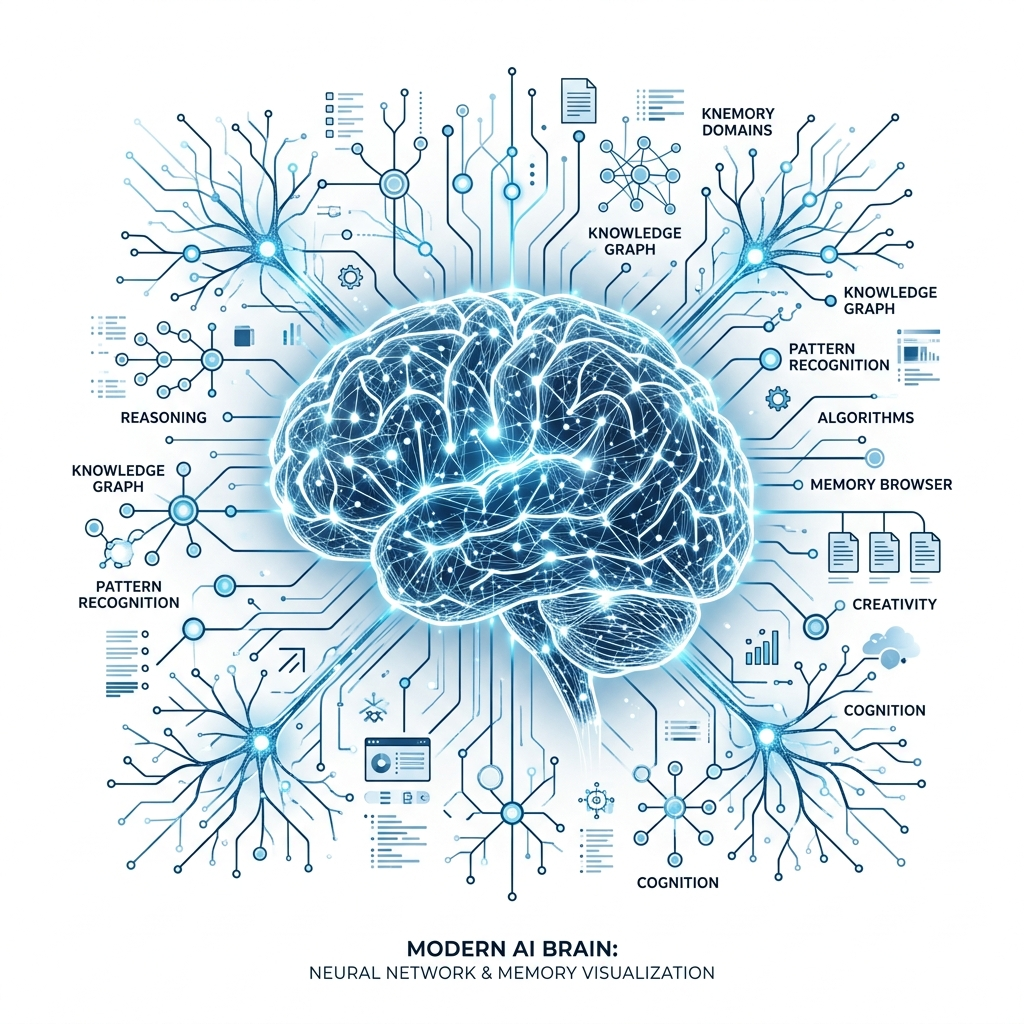
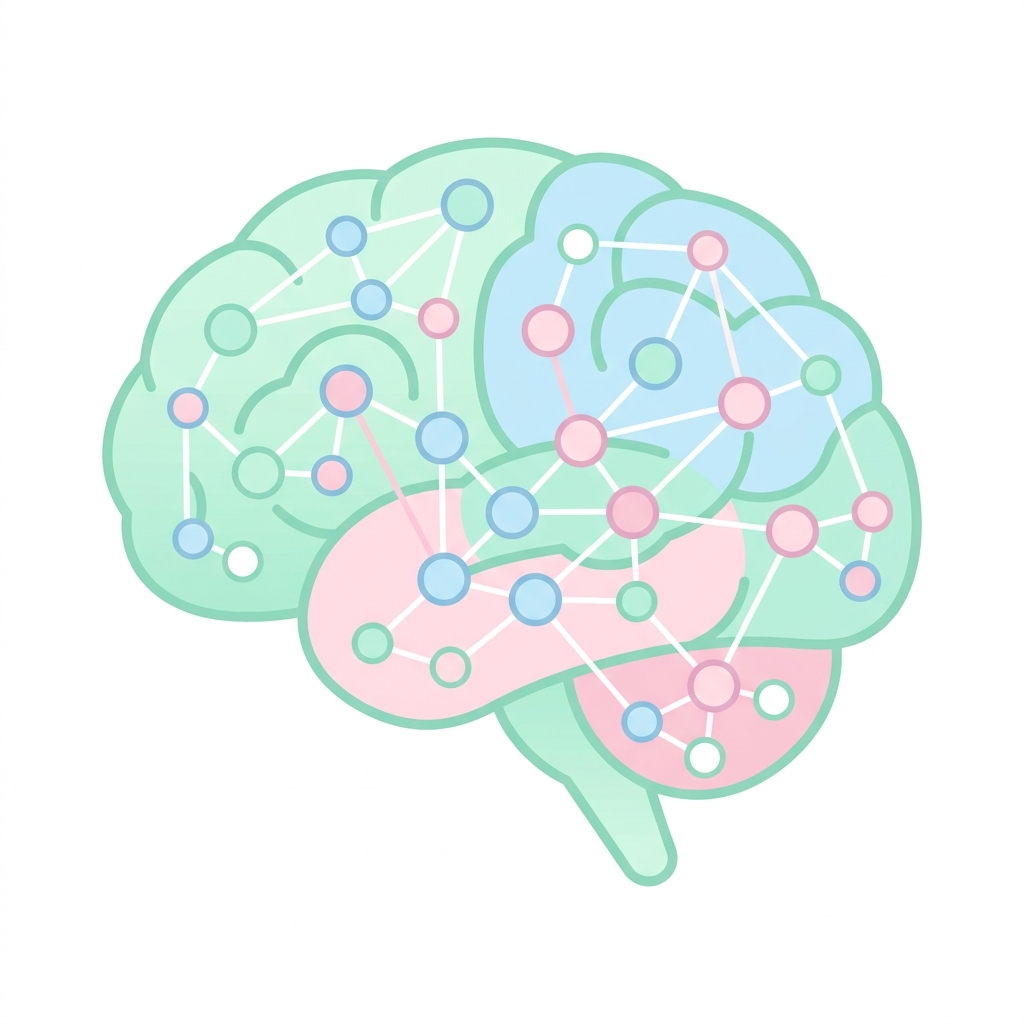
deploy: sameeraman/blog-source@9173d5e169e317e85f1f9f8b6ebdf857f8d3ef3d

diff --git a/2020/07/04/dockercheatsheet/index.html b/2020/07/04/dockercheatsheet/index.html
@@ -26,7 +26,7 @@
 <meta property="og:description" content="I recently went through my second study phase around docker containers recently. Docker is a huge topic these days and widly used in the application containerization. I use Docker at home and at work">
 <meta property="og:locale" content="en_US">
 <meta property="article:published_time" content="2020-07-04T09:34:48.000Z">
-<meta property="article:modified_time" content="2026-03-31T09:55:16.750Z">
+<meta property="article:modified_time" content="2026-03-31T10:05:26.458Z">
 <meta property="article:author" content="Sameera Perera">
 <meta property="article:tag" content="Containers">
 <meta property="article:tag" content="Docker">

diff --git a/2020/07/09/internalwebapphostingoptions/index.html b/2020/07/09/internalwebapphostingoptions/index.html
@@ -29,7 +29,7 @@
 <meta property="og:image" content="https://sameeraman.github.io/blog/2020/07/09/internalwebapphostingoptions/ServiceEndpoints.png">
 <meta property="og:image" content="https://sameeraman.github.io/blog/2020/07/09/internalwebapphostingoptions/ASE.png">
 <meta property="article:published_time" content="2020-07-09T10:34:48.000Z">
-<meta property="article:modified_time" content="2026-03-31T09:55:16.754Z">
+<meta property="article:modified_time" content="2026-03-31T10:05:26.461Z">
 <meta property="article:author" content="Sameera Perera">
 <meta property="article:tag" content="Networking">
 <meta property="article:tag" content="Apps">

diff --git a/2020/10/05/usg2vwanbgp/index.html b/2020/10/05/usg2vwanbgp/index.html
@@ -35,7 +35,7 @@
 <meta property="og:image" content="https://sameeraman.github.io/2020/10/05/usg2vwanbgp/command5.png">
 <meta property="og:image" content="https://sameeraman.github.io/2020/10/05/usg2vwanbgp/command6.png">
 <meta property="article:published_time" content="2020-10-05T09:34:48.000Z">
-<meta property="article:modified_time" content="2026-03-31T09:55:16.768Z">
+<meta property="article:modified_time" content="2026-03-31T10:05:26.470Z">
 <meta property="article:author" content="Sameera Perera">
 <meta property="article:tag" content="Networking">
 <meta property="article:tag" content="VWAN">

diff --git a/2020/10/18/underthehood/index.html b/2020/10/18/underthehood/index.html
@@ -27,7 +27,7 @@
 <meta property="og:locale" content="en_US">
 <meta property="og:image" content="https://sameeraman.github.io/2020/10/18/underthehood/blogdiagram1.png">
 <meta property="article:published_time" content="2020-10-18T09:34:48.000Z">
-<meta property="article:modified_time" content="2026-03-31T09:55:16.768Z">
+<meta property="article:modified_time" content="2026-03-31T10:05:26.469Z">
 <meta property="article:author" content="Sameera Perera">
 <meta property="article:tag" content="Static Pages">
 <meta property="article:tag" content="Github">

diff --git a/2020/11/04/globalreach/index.html b/2020/11/04/globalreach/index.html
@@ -34,7 +34,7 @@
 <meta property="og:image" content="https://sameeraman.github.io/2020/11/04/globalreach/pingtest2.png">
 <meta property="og:image" content="https://sameeraman.github.io/2020/11/04/globalreach/Routes2.png">
 <meta property="article:published_time" content="2020-11-04T11:24:44.000Z">
-<meta property="article:modified_time" content="2026-03-31T09:55:16.751Z">
+<meta property="article:modified_time" content="2026-03-31T10:05:26.459Z">
 <meta property="article:author" content="Sameera Perera">
 <meta property="article:tag" content="Networking">
 <meta property="article:tag" content="ExpressRoute">

diff --git a/2021/04/10/vwanntemplate/index.html b/2021/04/10/vwanntemplate/index.html
@@ -28,7 +28,7 @@
 <meta property="og:image" content="https://sameeraman.github.io/2021/04/10/vwanntemplate/vWAN2R_B.png">
 <meta property="og:image" content="https://sameeraman.github.io/2021/04/10/vwanntemplate/vWAN3R_B.png">
 <meta property="article:published_time" content="2021-04-10T09:34:48.000Z">
-<meta property="article:modified_time" content="2026-03-31T09:55:16.771Z">
+<meta property="article:modified_time" content="2026-03-31T10:05:26.473Z">
 <meta property="article:author" content="Sameera Perera">
 <meta property="article:tag" content="Networking">
 <meta property="article:tag" content="VWAN">

diff --git a/2021/06/20/mgauditlogs/index.html b/2021/06/20/mgauditlogs/index.html
@@ -32,7 +32,7 @@
 <meta property="og:image" content="https://sameeraman.github.io/2021/06/20/mgauditlogs/loga1.png">
 <meta property="og:image" content="https://sameeraman.github.io/2021/06/20/mgauditlogs/loga2.png">
 <meta property="article:published_time" content="2021-06-20T18:34:48.000Z">
-<meta property="article:modified_time" content="2026-03-31T09:55:16.756Z">
+<meta property="article:modified_time" content="2026-03-31T10:05:26.462Z">
 <meta property="article:author" content="Sameera Perera">
 <meta property="article:tag" content="Governance">
 <meta name="twitter:card" content="summary">

diff --git a/2021/09/14/azcopydatatransfer/index.html b/2021/09/14/azcopydatatransfer/index.html
@@ -31,7 +31,7 @@
 <meta property="og:image" content="https://sameeraman.github.io/2021/09/14/azcopydatatransfer/transfer_speed_1.png">
 <meta property="og:image" content="https://sameeraman.github.io/2021/09/14/azcopydatatransfer/transfer_speed_2.png">
 <meta property="article:published_time" content="2021-09-14T11:00:00.000Z">
-<meta property="article:modified_time" content="2026-03-31T09:55:16.746Z">
+<meta property="article:modified_time" content="2026-03-31T10:05:26.454Z">
 <meta property="article:author" content="Sameera Perera">
 <meta property="article:tag" content="Networking">
 <meta property="article:tag" content="ExpressRoute">

diff --git a/2021/11/07/aksstorageazfilesdynamic/index.html b/2021/11/07/aksstorageazfilesdynamic/index.html
@@ -35,7 +35,7 @@
 <meta property="og:image" content="https://sameeraman.github.io/2021/11/07/aksstorageazfilesdynamic/image8.png">
 <meta property="og:image" content="https://sameeraman.github.io/2021/11/07/aksstorageazfilesdynamic/image9.png">
 <meta property="article:published_time" content="2021-11-07T11:00:00.000Z">
-<meta property="article:modified_time" content="2026-03-31T09:55:16.738Z">
+<meta property="article:modified_time" content="2026-03-31T10:05:26.446Z">
 <meta property="article:author" content="Sameera Perera">
 <meta property="article:tag" content="AKS">
 <meta property="article:tag" content="Kuberenetes">

diff --git a/2022/01/29/azuresiterecoveryplan/index.html b/2022/01/29/azuresiterecoveryplan/index.html
@@ -35,7 +35,7 @@
 <meta property="og:image" content="https://sameeraman.github.io/2022/01/29/azuresiterecoveryplan/failover3.png">
 <meta property="og:image" content="https://img.youtube.com/vi/vF6d2GhL5wo/0.jpg">
 <meta property="article:published_time" content="2022-01-29T11:00:00.000Z">
-<meta property="article:modified_time" content="2026-03-31T09:55:16.747Z">
+<meta property="article:modified_time" content="2026-03-31T10:05:26.455Z">
 <meta property="article:author" content="Sameera Perera">
 <meta property="article:tag" content="ASR">
 <meta property="article:tag" content="Site Recovery">

diff --git a/2022/10/01/classicvms/index.html b/2022/10/01/classicvms/index.html
@@ -27,7 +27,7 @@
 <meta property="og:locale" content="en_US">
 <meta property="og:image" content="https://sameeraman.github.io/2022/10/01/classicvms/image1.png">
 <meta property="article:published_time" content="2022-10-01T11:24:44.000Z">
-<meta property="article:modified_time" content="2026-03-31T09:55:16.749Z">
+<meta property="article:modified_time" content="2026-03-31T10:05:26.457Z">
 <meta property="article:author" content="Sameera Perera">
 <meta property="article:tag" content="Compute">
 <meta property="article:tag" content="Virtual Machines">

diff --git a/2023/01/03/arcresourcebridge/index.html b/2023/01/03/arcresourcebridge/index.html
@@ -44,7 +44,7 @@
 <meta property="og:image" content="https://sameeraman.github.io/2023/01/03/arcresourcebridge/portal15.png">
 <meta property="og:image" content="https://sameeraman.github.io/2023/01/03/arcresourcebridge/portal16.png">
 <meta property="article:published_time" content="2023-01-03T11:24:44.000Z">
-<meta property="article:modified_time" content="2026-03-31T09:55:16.740Z">
+<meta property="article:modified_time" content="2026-03-31T10:05:26.448Z">
 <meta property="article:author" content="Sameera Perera">
 <meta property="article:tag" content="Hybrid">
 <meta property="article:tag" content="Azure Arc">